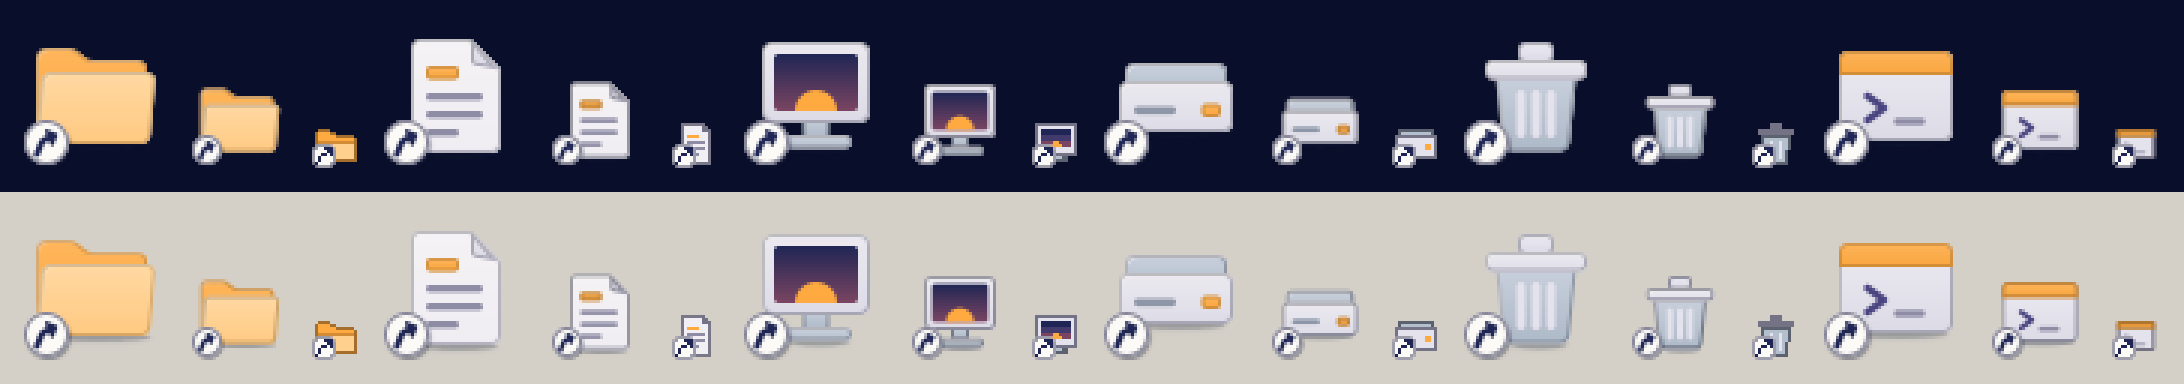
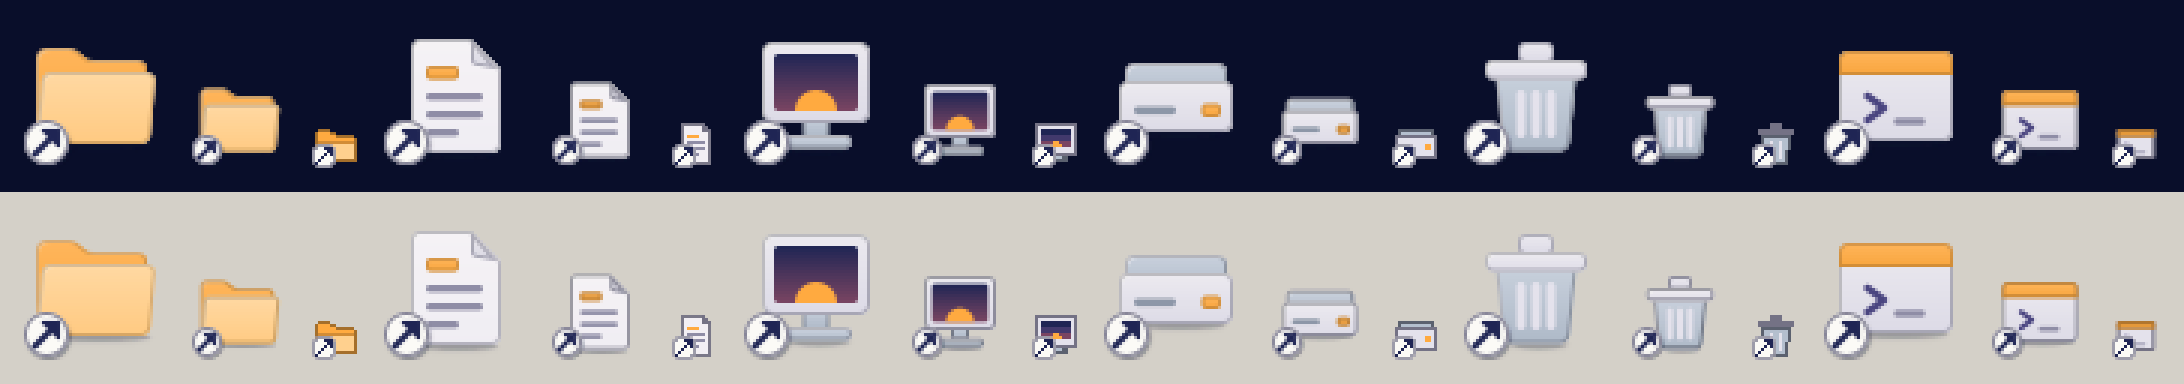
feat: use the original A1 paper coin as the shortcut arrow
**What.** The shortcut arrow is the original A1 paper coin with its straight diagonal arrow,
not the bent one.

- `arrows.py --variant A1` is canonical; `check:desktop` fails on drift
- the bend options stay in `arrows.py` as unused generator options with no shipped output
- the three arrow masters, `arrow.ico`, the hashes, the preview and the docs are regenerated

**Why.** The owner chose the original A1 after exploring obtuse heads and bent elbows.

diff --git a/docs/reactos-desktop-icons.md b/docs/reactos-desktop-icons.md
@@ -18,13 +18,13 @@ Folder, Folder (open), My Documents, My Pictures, My Music, My Videos, Desktop, 
 
 ## The shortcut arrow
 
-`arrow.ico` is the overlay ReactOS draws over a shortcut's icon. It is the A1 paper coin with a bent arrow: a paper disc with a tinted indigo edge, a dusk-navy arrow whose shaft bends at 135 degrees, and a slim soft shadow at 48 and 32. The owner chose the paper coin family, and 135 degrees is the default elbow angle: the stock arrow bends at 90 degrees and a straight arrow is 180, so 135 sits clearly between them. The angle is one option, `arrows.py --variant A1 --bend ANGLE`, so changing it is a regenerate away. At 16 px each leg of the arrow is about 3 pixels long, so 150 degrees looks straight and 110 looks like the stock hook; 135 is the first angle that reads as a bend there, which is why it was chosen. The stock overlay, shell32 group 30, has only 16 and 32 px frames, so at Shell Icon Size 48 ReactOS stretches the 32 px frame and blurs it; `arrow.ico` has real 16, 32 and 48 px frames, with each size's shadow baked in and none at 16. The 16 px frame is drawn pixel by pixel. All the art sits inside the stock boxes (16 × 16, 11 × 11 and 8 × 8, bottom-left), so no icon loses more than it does today, and a test checks it.
+`arrow.ico` is the overlay ReactOS draws over a shortcut's icon. It is the original A1 paper coin: a paper disc with a tinted indigo edge, a dusk-navy straight diagonal arrow and a slim soft shadow at 48 and 32. The owner chose it after exploring other badges, obtuse arrow heads and bent elbows (`arrows.py` keeps those options, but nothing shipped uses them). The stock overlay, shell32 group 30, has only 16 and 32 px frames, so at Shell Icon Size 48 ReactOS stretches the 32 px frame and blurs it; `arrow.ico` has real 16, 32 and 48 px frames, with each size's shadow baked in and none at 16. The 16 px frame is drawn pixel by pixel. All the art sits inside the stock boxes (16 × 16, 11 × 11 and 8 × 8, bottom-left), so no icon loses more than it does today, and a test checks it.
 
 ![The shortcut arrow over a folder, document, My Computer, hard disk, Recycle Bin and program at 48, 32 and 16 px, on the dark desktop and on cream, enlarged three times.](images/afterglow-arrow.png)
 
 _The arrow composited the way ReactOS does it: at the top left of a frame of the same size._
 
-The arrow reads at 13.9:1 on its coin. The coin is light, so its separation comes from the tinted edge: 1.9:1 against the gold back of the folder, 2.5:1 against the gold front and 3.5:1 against paper. That edge is the weak point on light and gold icons, where the coin itself is almost the same tone as what it sits on, and at 16 px the edge is a single pixel ring. On the dark desktop and on the dusk app plate the paper coin stands out strongly.
+The arrow reads at 13.9:1 on its coin. The coin is light, so its separation comes from the tinted edge: 1.9:1 against the gold back of the folder, 2.5:1 against the gold front and 3.5:1 against paper. That edge is the weak point on light and gold icons, where the coin is almost the same tone as what it sits on, and at 16 px the edge is a single pixel ring. On the dark desktop and on the dusk app plate the paper coin stands out strongly.
 
 To use it, replace shell32 group 30, which is the `Shell Icons` registry value `29` (`HKLM\Software\Microsoft\Windows\CurrentVersion\Explorer\Shell Icons`), with `ico/arrow.ico`. ReactOS composites the overlay at paint time over the icon at the same size, so it has to be 32-bit at every size.
 
@@ -50,11 +50,11 @@ python3 desktop/icons/render.py desktop/build/icons    # ico/, png/, afterglow-i
 
 ## Vector masters
 
-All the art is vector. `desktop/icons/gen_e.py` is the canonical source for the icons: it draws every icon and the sheet, and writes `icons/` (the 48 px masters, the `32/` and `16/` profiles and the hinted `ID-16.svg` redraws, 236 files) and `sheet.svg`. It imports `folders_g.py` beside it for the folder family. `desktop/icons/arrows.py` is the canonical source for the arrow (`arrows.py --variant A1 --bend 135 --out DIR` writes the three masters in `desktop/icons/arrow/`); the copy keeps its other variants and its own sheet code, which this repository does not use. The committed [`desktop/icons/svg/`](../desktop/icons/svg/), `desktop/icons/sheet.svg` and `desktop/icons/arrow/` are their output, kept so the masters can be opened and diffed without running anything. Edit the generators, not the SVGs: `bun run check:desktop` regenerates them and fails when they differ from the committed files, and `desktop/icons/SHA256SUMS.masters` records their hashes. Rasters are always rendered from the masters and never edited by hand.
+All the art is vector. `desktop/icons/gen_e.py` is the canonical source for the icons: it draws every icon and the sheet, and writes `icons/` (the 48 px masters, the `32/` and `16/` profiles and the hinted `ID-16.svg` redraws, 236 files) and `sheet.svg`. It imports `folders_g.py` beside it for the folder family. `desktop/icons/arrows.py` is the canonical source for the arrow (`arrows.py --variant A1 --out DIR` writes the three masters in `desktop/icons/arrow/`); the copy keeps its other variants and its own sheet code, which this repository does not use. The committed [`desktop/icons/svg/`](../desktop/icons/svg/), `desktop/icons/sheet.svg` and `desktop/icons/arrow/` are their output, kept so the masters can be opened and diffed without running anything. Edit the generators, not the SVGs: `bun run check:desktop` regenerates them and fails when they differ from the committed files, and `desktop/icons/SHA256SUMS.masters` records their hashes. Rasters are always rendered from the masters and never edited by hand.
 
 ```sh
 python3 desktop/icons/gen_e.py OUT_DIR    # writes OUT_DIR/icons/ and OUT_DIR/sheet.svg
-python3 -B desktop/icons/arrows.py --variant A1 --bend 135 --out OUT_DIR/arrow
+python3 -B desktop/icons/arrows.py --variant A1 --out OUT_DIR/arrow
 cp -r OUT_DIR/icons/. desktop/icons/svg/ && cp OUT_DIR/sheet.svg desktop/icons/sheet.svg
 cp OUT_DIR/arrow/arrow-48.svg OUT_DIR/arrow/arrow-32.svg OUT_DIR/arrow/arrow-16-hinted.svg desktop/icons/arrow/
 (cd desktop/icons && find svg arrow -type f | LC_ALL=C sort | xargs sha256sum > SHA256SUMS.masters && sha256sum sheet.svg gen_e.py folders_g.py arrows.py >> SHA256SUMS.masters)

diff --git a/desktop/PROVENANCE.md b/desktop/PROVENANCE.md
@@ -52,9 +52,9 @@ The colours are in the `SCHEMES` table in `style/agdraw.py`, one entry per colou
 
 **Original art.** The 73 icons are drawn by `icons/gen_e.py` from rectangles, circles, paths and strokes defined in the script on a 48-unit grid, with one face model (two tones, a gentle ramp, a lit band, a clipped inner edge, a contact shadow) applied by rule. The folder family comes from `icons/folders_g.py`, which draws the chosen G-M1 folder from the same kind of shapes, and the shortcut arrow (the A1 paper coin, bent 135 degrees) from `icons/arrows.py`. The colours are the Afterglow tokens plus ramp ends, edges and tones derived from them in the scripts. Nothing was traced or recoloured, and no ReactOS, Windows or third-party icon or overlay bitmap was opened or used. The design followed Microsoft Learn's public app icon design and construction guidance and Fluent 2's iconography notes for grid, radii, sizes and light direction; only the guidance was read. The ReactOS 0.4.16 source and the installed `shell32.dll` were read for icon group ids, frame sizes and the overlay's footprint, which is where the verified ids in `icons/map.json` come from; none of their pixels are used.
 
-| Asset                                             | Made by                                   | Notes                                                                                        |
-| ------------------------------------------------- | ----------------------------------------- | -------------------------------------------------------------------------------------------- |
-| `icons/svg/**`, `icons/sheet.svg`                 | `icons/gen_e.py`                          | The generator is canonical; the SVGs are its output, hashed in `icons/SHA256SUMS.masters`    |
-| `icons/arrow/*.svg`                               | `icons/arrows.py --variant A1 --bend 135` | The generator is canonical; the three masters are its output                                 |
-| `icons/ico/*.ico`, `icons/png/*.png` (not in git) | `icons/render.py`                         | Deterministic `.ico` bytes, hashed in `icons/SHA256SUMS`, checked by `bun run check:desktop` |
-| `icons/map.json`                                  | Written by hand                           | Icon id to the ReactOS icon it replaces; resource ids only where verified                    |
+| Asset                                             | Made by                        | Notes                                                                                        |
+| ------------------------------------------------- | ------------------------------ | -------------------------------------------------------------------------------------------- |
+| `icons/svg/**`, `icons/sheet.svg`                 | `icons/gen_e.py`               | The generator is canonical; the SVGs are its output, hashed in `icons/SHA256SUMS.masters`    |
+| `icons/arrow/*.svg`                               | `icons/arrows.py --variant A1` | The generator is canonical; the three masters are its output                                 |
+| `icons/ico/*.ico`, `icons/png/*.png` (not in git) | `icons/render.py`              | Deterministic `.ico` bytes, hashed in `icons/SHA256SUMS`, checked by `bun run check:desktop` |
+| `icons/map.json`                                  | Written by hand                | Icon id to the ReactOS icon it replaces; resource ids only where verified                    |
